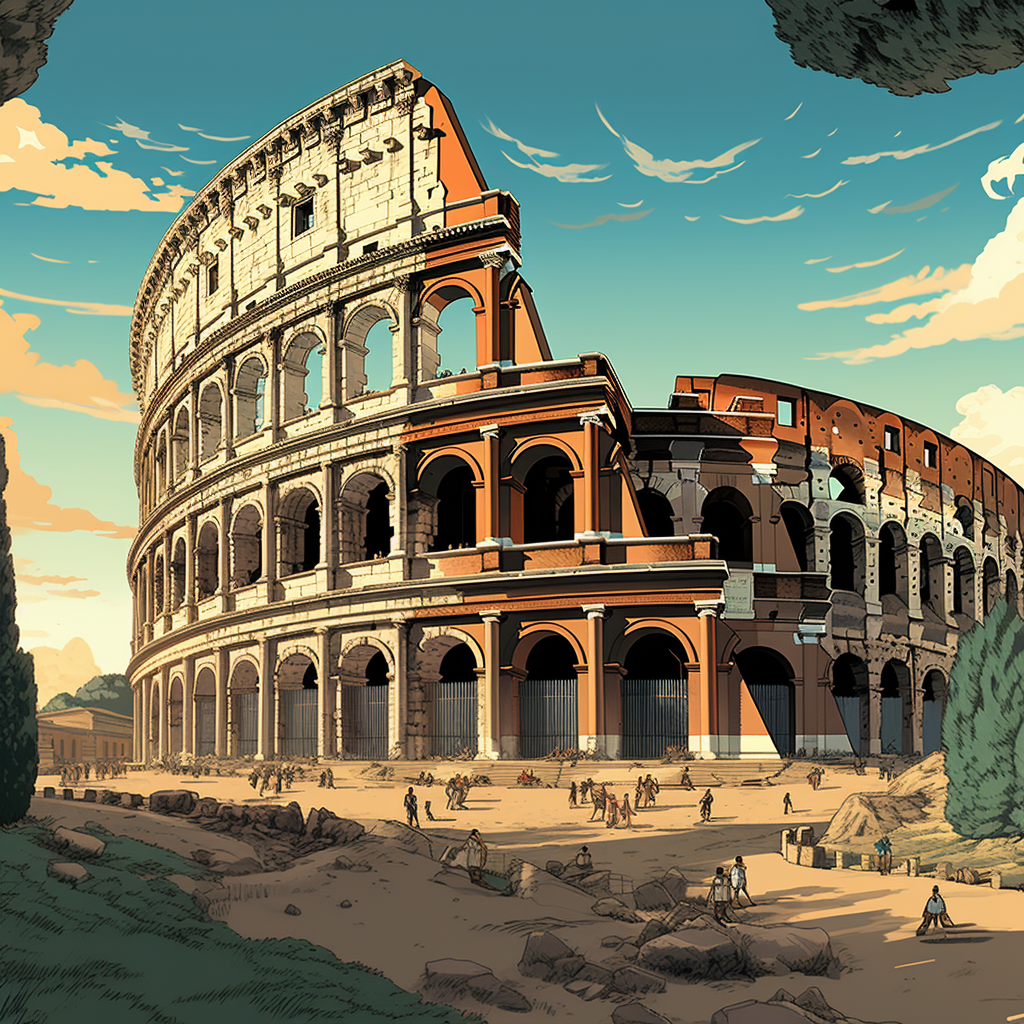
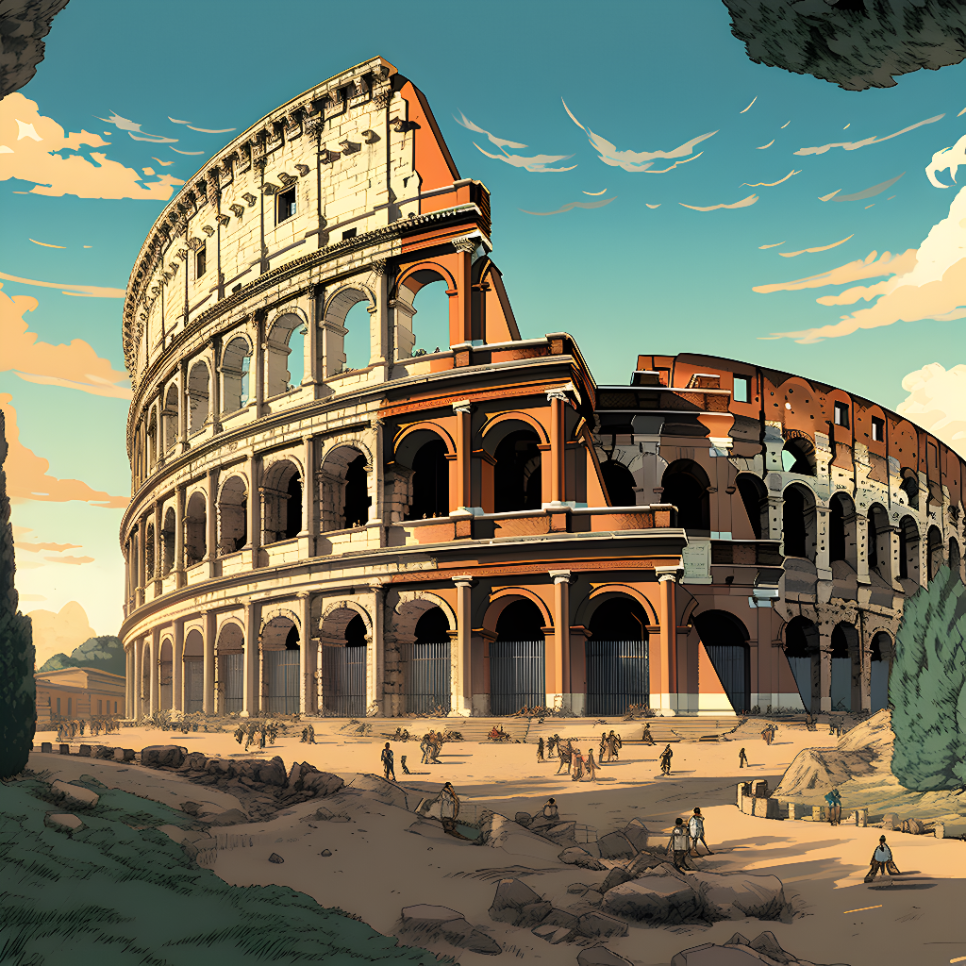
up

diff --git a/public/css/styles.css b/public/css/styles.css
@@ -7841,7 +7841,7 @@ body {
   height: auto;
   min-height: 35rem;
   padding: 15rem 0;
-  background: linear-gradient(to bottom, rgba(0, 0, 0, 0.4) 20%, rgba(0, 0, 0, 0.0) 100%, #000000 100%), url("../assets/img/colosseum.png");
+  background: linear-gradient(to bottom, rgba(0, 0, 0, 0.4) 20%, rgba(0, 0, 0, 0.0) 100%, #000000 100%), url("../assets/img/colosseum1.jpg");
   background-position: center;
   background-repeat: no-repeat;
   background-attachment: scroll;
